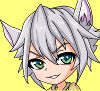
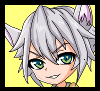
Game UI

Changed region(s): [[0.0, 0.0, 1.0, 1.0], [0.84, 0.6374, 0.87, 0.6593]]

diff --git a/public/js/game.js b/public/js/game.js
@@ -180,6 +180,10 @@ window.onload = function () {
       game.load.image('skill1', 'img/skill1.png');
       game.load.image('skill2', 'img/skill2.png');
       game.load.image('skilln', 'img/skilln.png');
+      game.load.image('z', 'img/z.png');
+      game.load.image('x', 'img/x.png');
+      game.load.image('c', 'img/c.png');
+      game.load.image('hud', 'img/hub.png');
 
       // Initialize sprites
       var spriteId, spritePath;
@@ -508,14 +512,23 @@ window.onload = function () {
     
       background = game.add.tileSprite(0, 0, WORLD_WIDTH, WORLD_HEIGHT, 'background');
       //interface //aki
+      hud = game.add.sprite(0,560,'hud');
+      hud.fixedToCamera=true;
       avatar = game.add.sprite(0,570,'avatar');
       avatar.fixedToCamera=true;
+      avatar.bringToTop();
       skill0 = game.add.sprite(110,570,'skill0');
       skill0.fixedToCamera=true;
       skill1 = game.add.sprite(170,570,'skill1');
       skill1.fixedToCamera=true;
       skill2 = game.add.sprite(230,570,'skill2');
       skill2.fixedToCamera=true;
+      z = game.add.sprite(110,620,'z');
+      z.fixedToCamera=true;
+      x = game.add.sprite(170,620,'x');
+      x.fixedToCamera=true;
+      c = game.add.sprite(230,620,'c');
+      c.fixedToCamera=true;
       /*
       if(player.score>9){
         skill0 = game.add.sprite(110,600,'skill0');

diff --git a/config.js b/config.js
@@ -62,25 +62,25 @@ module.exports = {
   COIN_TYPES: [
     {
       type: 4,//orb4
-      value:20,
+      value:1120,
       radius: 10,
       probability: 0.25
     },
     {
       type: 3,
-      value: 10,//orb3
+      value: 101,//orb3
       radius: 10,
       probability: 0.6
     },
     {
       type: 2,
-      value: 30,//orb2
+      value: 130,//orb2
       radius: 10,
       probability: 0.1
     },
     {
       type: 1,
-      value: 30,//orb1
+      value: 130,//orb1
       radius: 10,
       probability: 0.05
     }
